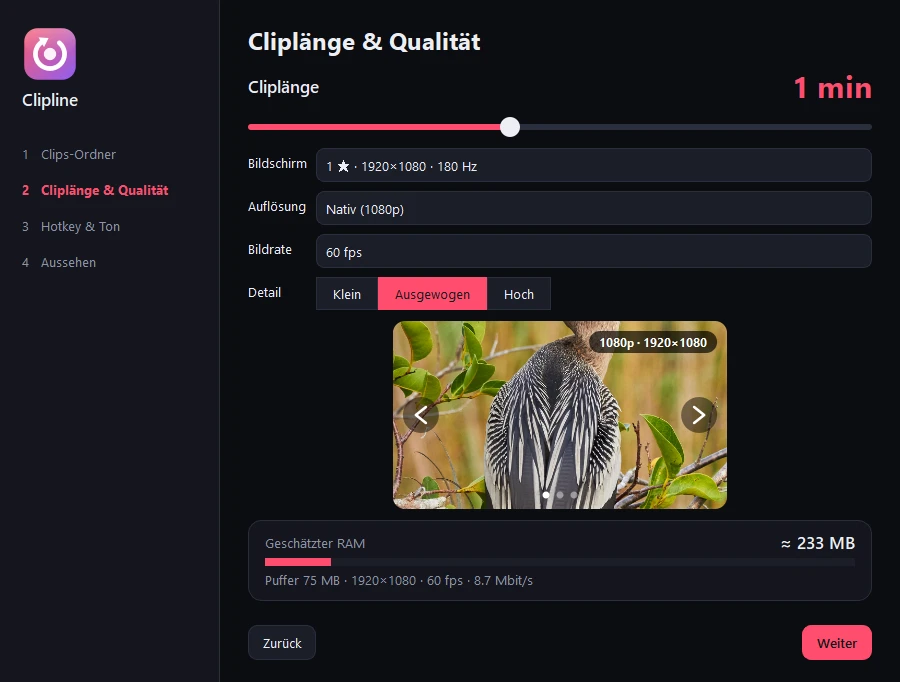
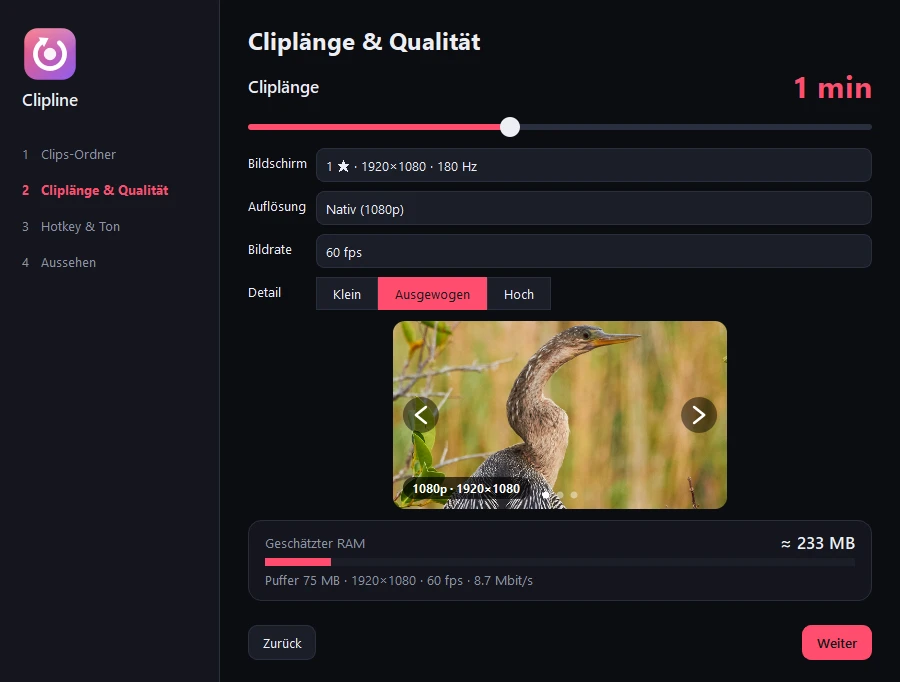
Clipline 1.0.2: bird photo cropped from the top (head visible), badge no longer covers the beak

Changed region(s): [[0.4356, 0.4619, 0.8089, 0.7698]]

diff --git a/docs/index.html b/docs/index.html
@@ -186,7 +186,7 @@
     background:rgba(0,0,0,.45); backdrop-filter:blur(8px); color:#fff; display:grid; place-items:center; font-size:22px; transition:background .15s, transform .15s; }
   .qview .arrow:hover { background:rgba(0,0,0,.7); transform:translateY(-50%) scale(1.06); }
   .qview .arrow.l { left:16px; } .qview .arrow.r { right:16px; }
-  .qview .tag { position:absolute; top:16px; right:16px; padding:6px 13px; border-radius:999px; background:rgba(0,0,0,.6); color:#fff; font:700 13px var(--mono); backdrop-filter:blur(6px); }
+  .qview .tag { position:absolute; top:16px; left:16px; padding:6px 13px; border-radius:999px; background:rgba(0,0,0,.6); color:#fff; font:700 13px var(--mono); backdrop-filter:blur(6px); }
   .qview .dots { position:absolute; bottom:16px; left:50%; transform:translateX(-50%); display:flex; gap:8px; }
   .qview .dots button { width:9px; height:9px; padding:0; border-radius:50%; border:0; background:rgba(255,255,255,.45); }
   .qview .dots button.on { background:#fff; width:22px; border-radius:5px; }
@@ -615,7 +615,7 @@
 
   // ---------- Qualitätsansicht: Foto wirklich auf die Auflösung rechnen, dann wie im Vollbild anzeigen ----------
   var PHOTOS = [
-    { src: 'img/photo-bird.webp', fx: .47, fy: .42, credit: 'Anhinga · NPS Everglades · Public domain' },
+    { src: 'img/photo-bird.webp', fx: .50, fy: .32, credit: 'Anhinga · NPS Everglades · Public domain' },
     { src: 'img/photo-valley.webp', fx: .50, fy: .30, credit: 'Oolah Valley · NPS Alaska · Public domain' },
     { src: 'img/photo-falls.webp', fx: .56, fy: .36, credit: 'Chute-Montmorency · Wikimedia Commons · CC0' }
   ];

diff --git a/src/setup.cpp b/src/setup.cpp
@@ -51,7 +51,7 @@ struct Photo {
     double fx, fy;  // Bildmitte des Ausschnitts (0..1)
 };
 // Gemeinfrei/CC0 (Wikimedia Commons): Anhinga – NPS Everglades · Oolah Valley – NPS Alaska · Chute-Montmorency – CC0
-const Photo kPhotos[] = {{":/photos/bird.jpg", 0.47, 0.42}, {":/photos/valley.jpg", 0.50, 0.30}, {":/photos/falls.jpg", 0.56, 0.36}};
+const Photo kPhotos[] = {{":/photos/bird.jpg", 0.52, 0.28}, {":/photos/valley.jpg", 0.50, 0.30}, {":/photos/falls.jpg", 0.56, 0.36}};
 constexpr int kPhotoCount = 3;
 constexpr double kZoom = 1920.0 / 640.0;  // Ausschnitt = 1/3 der Breite -> wie 1080p-Vollbild in Originalgröße
 }  // namespace
@@ -142,7 +142,7 @@ void QualityPreview::paintEvent(QPaintEvent*) {
     const int h = std::min(height_, native_);
     const QString t = QString("%1p · %2×%3").arg(h).arg(int(std::lround(h * 16.0 / 9 / 2)) * 2).arg(h);
     const double bw = QFontMetrics(f).horizontalAdvance(t) + 20;
-    const QRectF b(r.right() - bw - 10, r.top() + 10, bw, 22);
+    const QRectF b(r.left() + 10, r.bottom() - 32, bw, 22);
     p.setBrush(QColor(0, 0, 0, 170));
     p.drawRoundedRect(b, 11, 11);
     p.setPen(Qt::white);
